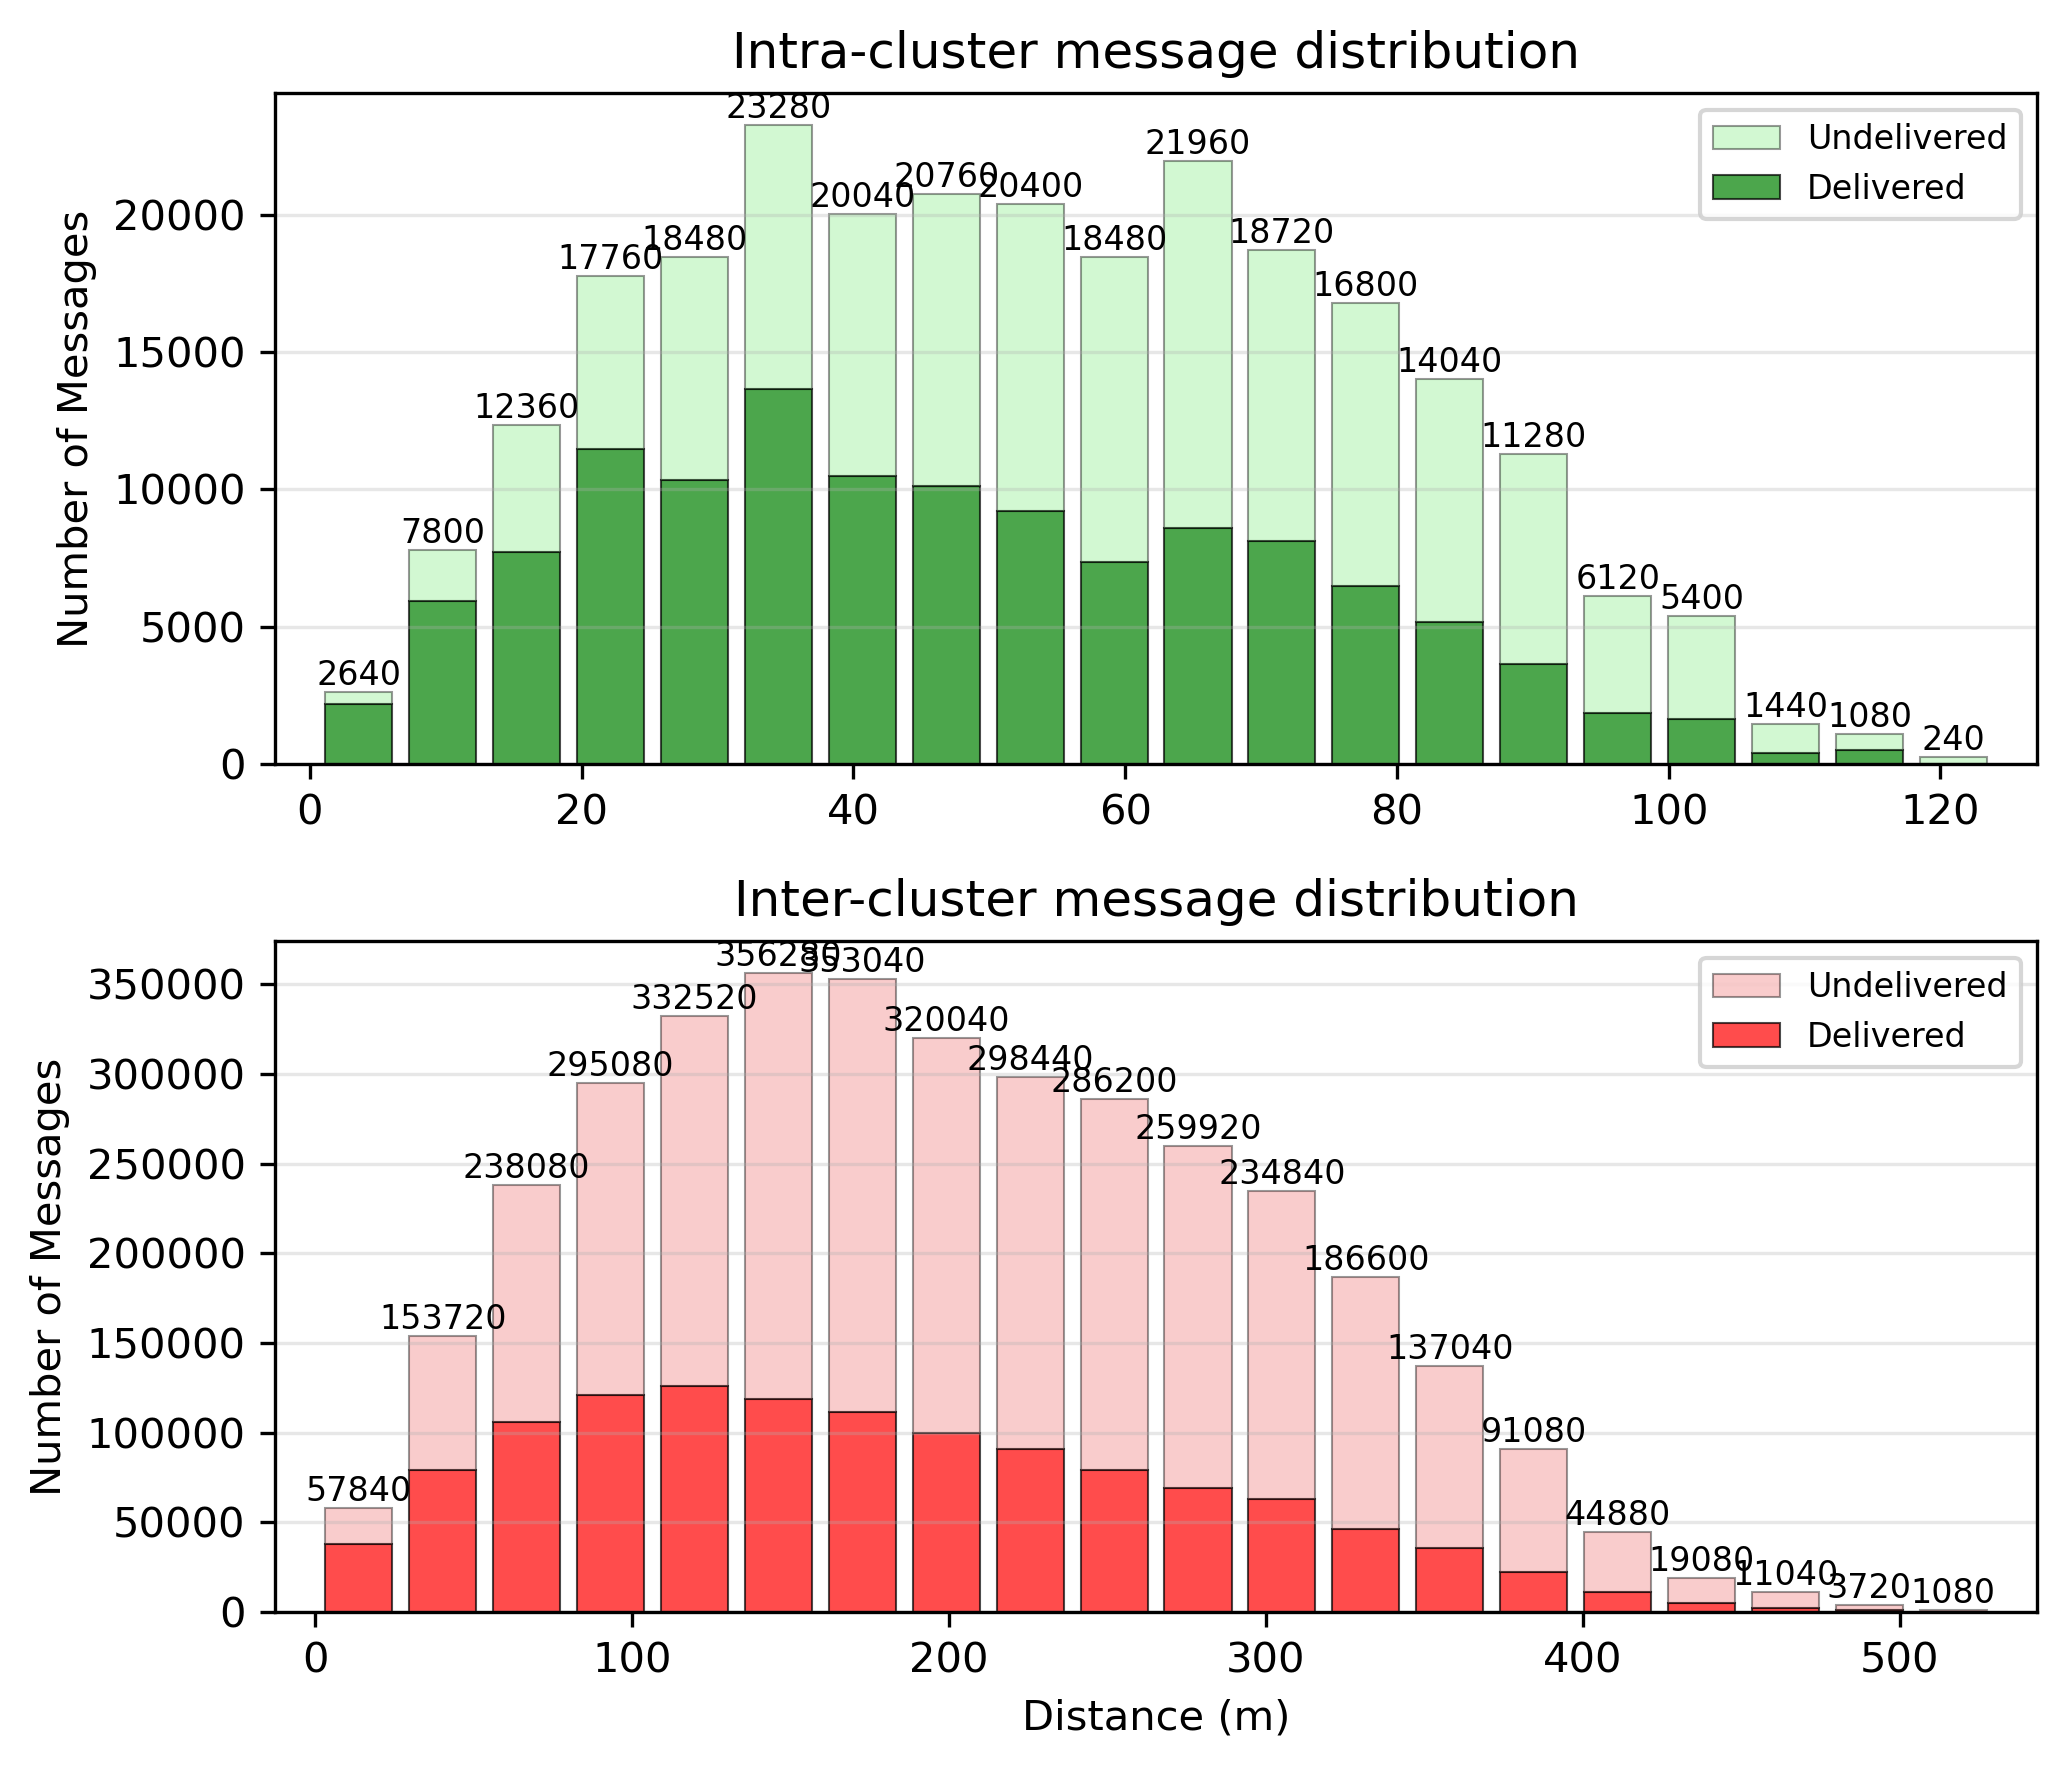
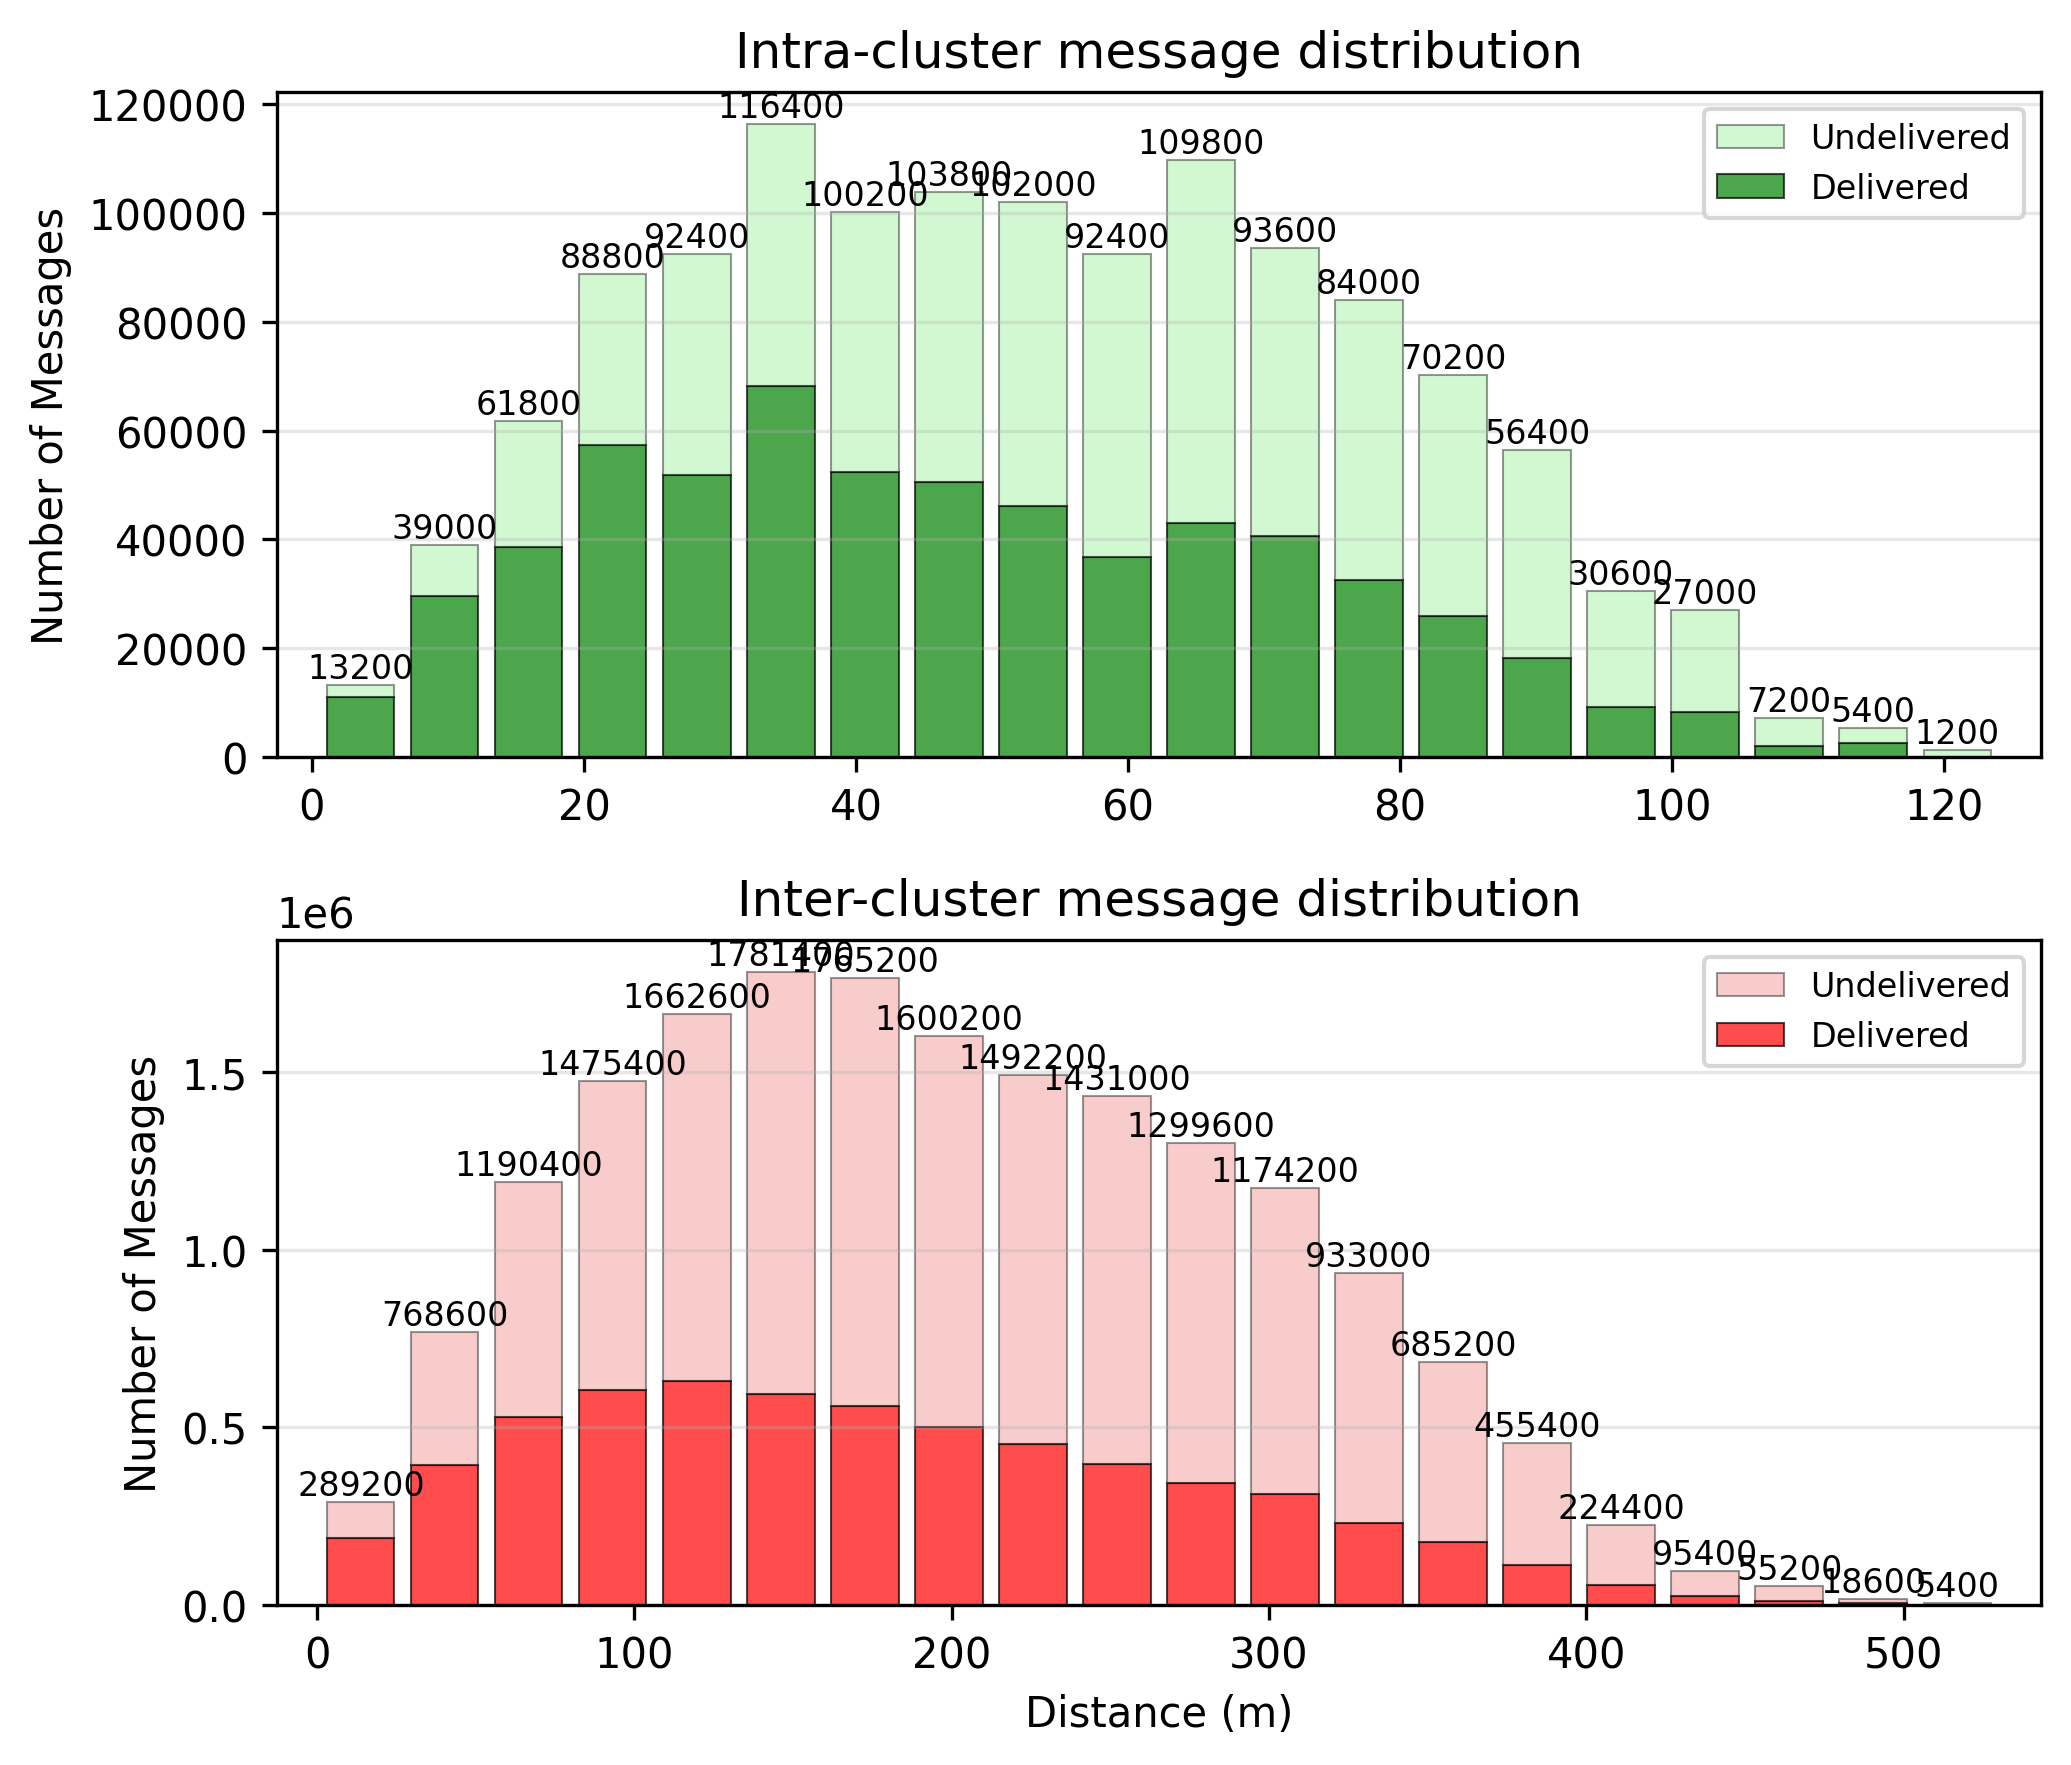
fix colorbar label, use caching to speedup latency vs max deg plot

diff --git a/paper/chapters/simulations.tex b/paper/chapters/simulations.tex
@@ -1,27 +1,34 @@
 We used the The ONE simulator~\cite{the-one} to simulate an opportunistic exchange of messages between nodes communicating over the BLE, using the empirical results from the testbed experiment to model the signal path loss with distance.
-The simulation was repeated for 25 runs per configuration, using an Ubuntu 22.04 with a Intel(R) Xeon(R) Gold 6326 CPU @ 2.90GHz with 64 cores, and 247 GB of RAM. To run the simulations we used parallelization by spawning 60 parallel jobs. 
-In each run, the nodes remain static and attempt to send the same amount of messages to all other nodes in the network, using an epidemic router to flood messages across the network.
-The epidemic router is especially useful to simulate the scenario of message propagation in disaster zones, where it is critical to disseminate information as fast and as wide as possible.
-In an epidemic routing scheme, every node sends all its messages to all of its neighbors, and each neighbor recursively repeats this iterative process until the final destination node for each message is reached.
-In every simulator run, a host generates 20 messages to all other hosts in the network, with a size of 247 bytes each. A simulator run ends when all generated messages are either delivered or discarded. 
-
-For the signal path loss model, we used the empirical data presented in table~\ref{tab:rssi-stats}, and interpolated for distances between the empirical measurements using the normal logarithmic path loss model laid out in equation 6 of \cite{pathloss}.
+The simulation was repeated for 25 runs per configuration, using an Ubuntu 22.04 with an Intel(R) Xeon(R) Gold 6326 CPU @ 2.90GHz with 64 cores, and 247 GB of RAM. To run the simulations we used parallelization, spawning 60 parallel jobs.
+Using a static movement model, every node remains static (i.e. the node does not move) and attempts to send the same amount of messages to all other nodes in the network.
+In a disaster zone, it is critical to disseminate information as fast and as far as possible, and due to instability, no routes can be assumed to exist.
+To mimic this scenario of message propagation in disaster zones, we used an epidemic router to flood messages across the network.
+In an epidemic routing scheme, every node sends all messages, including messages it relays, to all of its neighbors, and each neighbor recursively repeats this iterative process until the final destination node for each message is reached.
+For every simulator run, we used either exclusively intra-cluster communication to simulate clique-based short-range cluster communication, or inter-cluster communication to simulate long-range communication:
+In the former, a host generates 20 messages to all other hosts in its cluster, while at latter every host generates 20 messages to all other hosts in the network.
+We used the typical BLE MTU size of 247 bytes for all messages.
+A simulator run ends when all generated messages are either delivered or discarded.
+For the signal path loss model, we used empirical data presented in table~\ref{tab:rssi-stats}, and interpolated for distances between the empirical measurements using the normal logarithmic path loss model laid out in equation 6 of \cite{pathloss}.
 The path loss model is defined as follows:
+
 $$
 RSSI_d (dBm) = A - 10 * \alpha * \log_{10}(\frac{d}{d_0})
 $$
-where $RSSI_d$ is the received signal strength indicator at distance $d$ between source and destination nodes, $d_0$ is the distance at the nearest lower or equal reference point, $A$ is the RSSI at the nearest lower or equal reference distance $d_0$ (as measured by the testbed), $\alpha$ is the path loss exponent.
-We wanted to evaluate the performance of the Bluetooth Low Energy running on 1M PHY mode, which means a symbol modulation rate of 1Mbps at $\le1$ meter.
-
-A large 400$\times$400 meter L-shape building hall was generated, split to a grid of 12 equal-sized cells of 100 $\times$ 100 meters each assigned to a cluster consisting of six hosts, for a total of 72 hosts. Each host was randomly placed within the cluster cell assigned to it.
-A random number generator that generates the node positions, whose seed is derived from the communication range, the message size, and optionally by the simulation run number, is used to ensure reproducibility of results.
+where $RSSI_d$ is the received signal strength indicator at distance $d$ between source and destination nodes, $d_0$ is the distance at the nearest lower or equal reference point, $A$ is the RSSI at the nearest lower or equal reference distance $d_0$ (as measured by the testbed), and $\alpha$ is the path loss exponent.
+We wanted to evaluate the performance of the Bluetooth Low Energy running on 1M PHY mode, which means a modulation rate of 1Mbps at $\le1$ meter.
+To calculate the possible channel bitrate cap at a specific range, we used the Shannon-Hartley theorem to derive the theoretical capacity based on known BLE channel properties.
+A large 400$\times$400 meter L-shape building hall was generated, split to a grid of 12 equal-sized cells of 100 $\times$ 100 meters each assigned to a cluster consisting of six hosts, for a total of 72 hosts.
+We randomly placed each host within the cell to which its cluster was assigned.
+To generate the random node positions, a random number generator was used.
+We fed the random generator with a seed that was mathematically derived from the communication range, message size, and optionally by the simulation run number, to ensure result reproducibility.
 The communication range is a configurable parameter which limits the radius of communication of the network interface that each node has: for simplification, a connection between two nodes can be established if they are within the communication radius of each other, and have direct line of sight.
 A connection does not churn during a simulation run: once a connection is established it is maintained until the end of the simulation run.
 
 \subsection{Model Insights}
-Different topologies were generated by using the communication radii of [1,5,10,20,30,40,50,60,70,80,90,100] meters.
-A simulation run configuration consists of a set of parameters, including the message generation rate, the maximum communication radius of each node, the maximum number of parallel connections (max node degree) each node can establish and maintain, and the communication mode: either exclusively intra-cluster communication to simulate clique-based short-range cluster communication, or inter-cluster communication to simulate long-range communication.
-The same exact topology was repeated for [1,2,3,4,5,6,7,8,9,10,15,20] maximum node degrees, each for 25 runs, keeping the topologies invariant to the run number but changing them for each communication range, thereby shuffling the order of the hosts picked for message generation, to prevent introducing bias by the alphanumerical ordering of the hosts IDs.
+We used the communication radii of [1,5,10,20,30,40,50,60,70,80,90,100] meters to generate different topologies.
+A simulation run configuration consists of a set of parameters, including the message generation rate, the maximum communication radius of each node, the maximum number of parallel connections (max node degree) each node can establish and maintain, and the communication mode.
+The same exact topology generated for each communication radius was repeated for [1,2,3,4,5,6,7,8,9,10,15,20] maximum node degrees, each for 25 runs, keeping the topologies invariant to the run number.
+In doing so, this shuffled the order of the hosts picked for message generation, which we used to prevent introducing bias by the order of the hosts.
 This was done to elicit the effects of the maximum node degree and communication range on timely message delivery.
 
 \begin{figure}[hbp]

diff --git a/simulations/the-one/plot.py b/simulations/the-one/plot.py
@@ -1396,30 +1396,26 @@ def plot_latency_vs_max_degree(delivered_messages: list[Message], topologies: di
     # Collect data points: latency per run/config
     data_points = []
     
-    config_keys = set()
+    # Pre-group messages by (mode, comm_range, max_deg, run) for O(n) instead of O(n*m)
+    from collections import defaultdict
+    grouped_messages = defaultdict(list)
     for msg in delivered_messages:
         if msg.delivery_time > 0:
-            config_keys.add((msg.mode, msg.communication_range, msg.max_degree))
+            key = (msg.mode, msg.communication_range, msg.max_degree, msg.run)
+            grouped_messages[key].append(msg.delivery_time)
     
-    for mode, comm_range, max_deg in config_keys:
-        for run_num in randomized_runs:
-            # Get delivered messages for this specific run/config
-            msgs_run = [msg for msg in delivered_messages 
-                       if msg.mode == mode and msg.communication_range == comm_range 
-                       and msg.max_degree == max_deg and msg.run == run_num
-                       and msg.delivery_time > 0]
+    # Extract data points from pre-grouped messages
+    for (mode, comm_range, max_deg, run_num), latencies in grouped_messages.items():
+        if run_num in randomized_runs:
+            mean_latency = np.mean(latencies)
             
-            if len(msgs_run) > 0:
-                latencies = [msg.delivery_time for msg in msgs_run]
-                mean_latency = np.mean(latencies)
-                
-                data_points.append({
-                    'mode': mode,
-                    'comm_range': comm_range,
-                    'max_degree': max_deg,
-                    'run': run_num,
-                    'mean_latency': mean_latency
-                })
+            data_points.append({
+                'mode': mode,
+                'comm_range': comm_range,
+                'max_degree': max_deg,
+                'run': run_num,
+                'mean_latency': mean_latency
+            })
     
     ranges = sorted(set(d['comm_range'] for d in data_points))
     max_degrees = sorted(set(d['max_degree'] for d in data_points))
@@ -1766,7 +1762,8 @@ def plot_topology_and_distance_matrices(all_messages: list[Message], topologies:
                 im_dist = ax_dist.imshow(distance_matrix, cmap='viridis', interpolation='nearest', origin='lower')
                 ax_dist.set_xlabel('Host Index', fontsize=16)
                 ax_dist.set_ylabel('Host Index', fontsize=16)
-                cbar_dist = plt.colorbar(im_dist, ax=ax_dist, label='Distance (m)', fontsize=16)
+                cbar_dist = plt.colorbar(im_dist, ax=ax_dist)
+                cbar_dist.set_label('Distance (m)', fontsize=16)
             
             # Plot topology matrices for both modes
             for mode_idx, mode in enumerate(modes):
@@ -2114,7 +2111,7 @@ def main():
     plot_centralization_vs_delivery(randomized_all_messages, randomized_delivered_messages, randomized_topologies, time_threshold=10.0)
     plot_centralization_vs_delivery(randomized_all_messages, randomized_delivered_messages, randomized_topologies, time_threshold=240.0)
 
-    print("Generating topology and distance matrix plots...")
+    print("Generating topology and distance matrix plots...") # WANT THIS
     plot_topology_and_distance_matrices(nonrandomized_all_messages, nonrandomized_topologies)
 
     print("Generating delivery success probability plots...")
